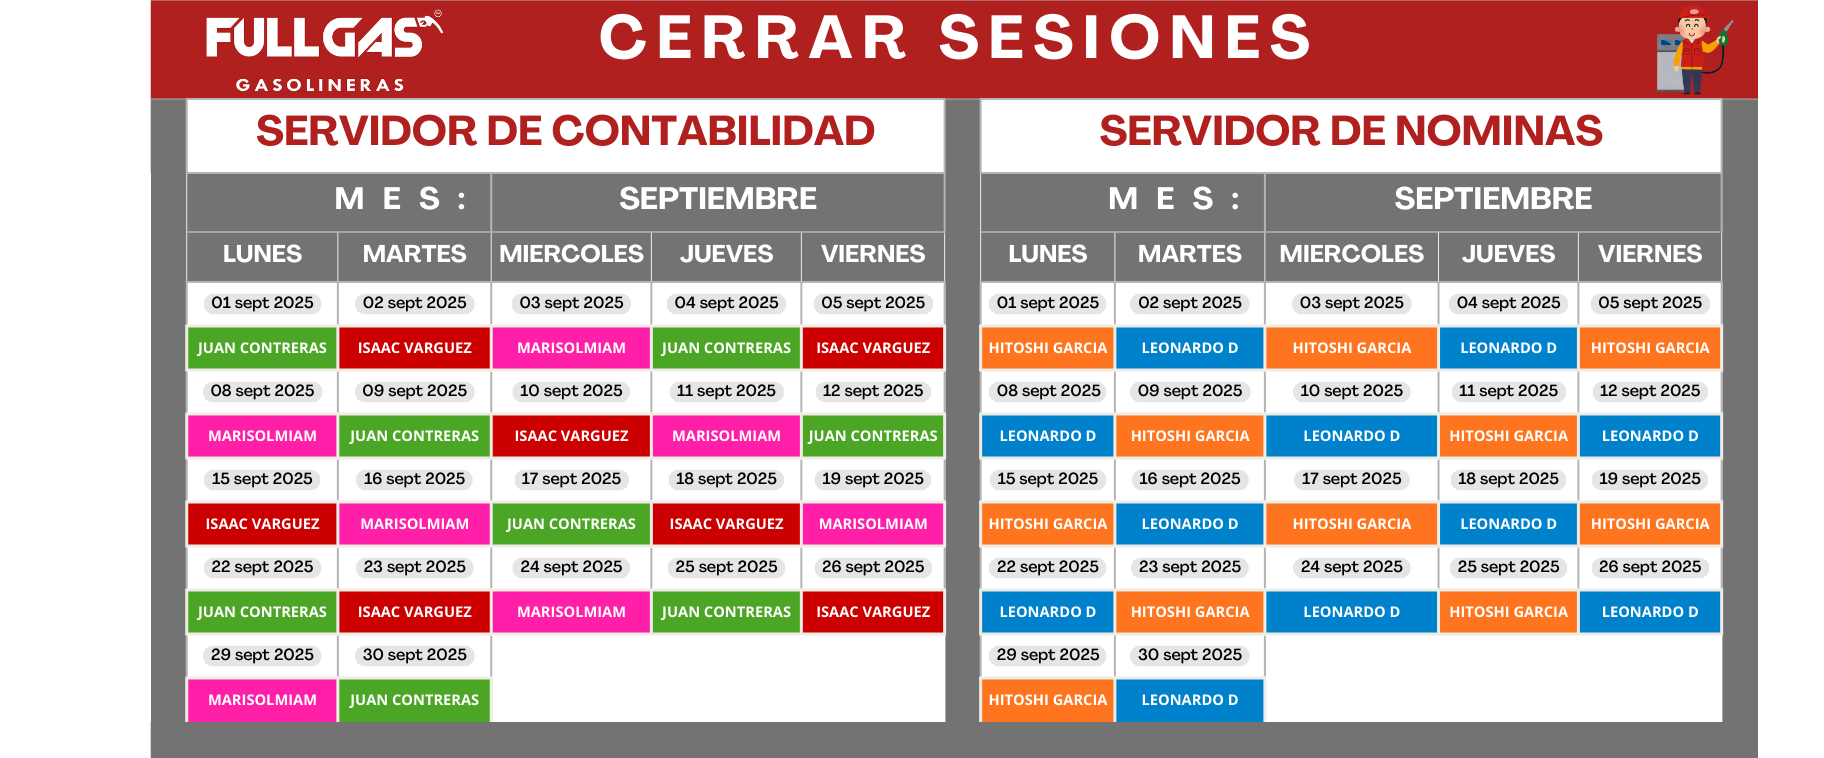
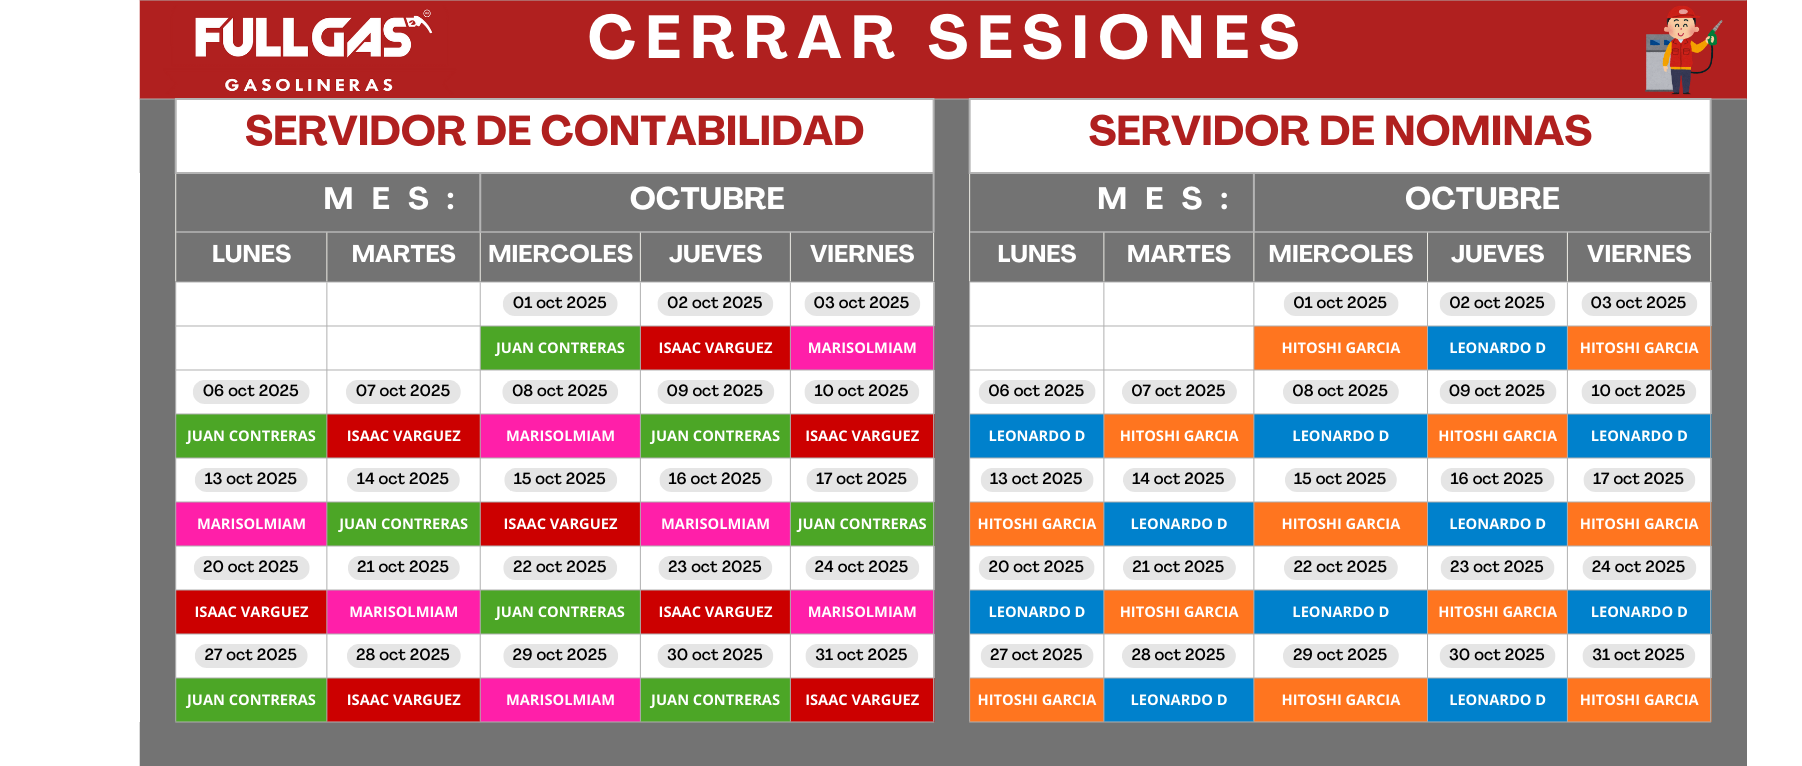
actualizacion de imagenes7

diff --git a/index.html b/index.html
@@ -40,7 +40,7 @@
                 <div class="galeria">
                     <!-- Imagen 1 -->
                     <div class="imagen-container">
-                        <img src="imagen/SEPTIEMBRE 2025.png" alt="Imagen 1" class="imagen">
+                        <img src="imagen/OCTUBRE2025.png" alt="Imagen 1" class="imagen">
                         <div class="pie-imagen">
                             <LI><a href="#modal1">JSON DIARIOS</a></LI>
                             <h3></h3>
@@ -50,9 +50,9 @@
 
                     <!-- Imagen 2 -->
                     <div class="imagen-container">
-                        <img src="imagen/ROLL_SABADOS.png" alt="Imagen 2" class="imagen">
+                        <img src="imagen/TXT.png" alt="Imagen 2" class="imagen">
                         <div class="pie-imagen">
-                            <LI><a href="#modal2">HORARIO SABADOS</a></LI>
+                            <LI><a href="#modal2">TXT</a></LI>
                             <h3></h3>
                             <p></p>
                         </div>
@@ -93,6 +93,9 @@
                             <p></p>
                         </div>
                     </div>
+                    <div>
+
+                    </div>
                     <div class="imagen-container">
                         <img src="imagen/GENERAL.png" alt="Imagen 8" class="imagen">
                         <div class="pie-imagen">
@@ -101,23 +104,17 @@
                             <p></p>
                         </div>
                     </div>
-                    <div class="imagen-container ">
-                        <img src="imagen/TXT.png" alt="Imagen 7" class="imagen">
-                        <div class="pie-imagen">
-                            <LI><a href="#modal7">TXT</a></LI>
-                            <p></p>
-                        </div>
-                    </div>
+
                     <div id="modal8" class="modalmask">
                         <div class="modalbox resize">
                             <a href="#close" title="Close" class="close"></a>
                             <img src="imagen/GENERAL.png" alt="Imagen 8" class="imagen">
                         </div>
                     </div>
-                    <div id="modal7" class="modalmask">
+                    <div id="modal2" class="modalmask">
                         <div class="modalbox resize">
                             <a href="#close" title="Close" class="close"></a>
-                            <img src="imagen/TXT.png" alt="Imagen 7" class="imagen">
+                            <img src="imagen/TXT.png" alt="Imagen 2" class="imagen">
                         </div>
                     </div>
                     <div id="modal6" class="modalmask">
@@ -144,23 +141,20 @@
                             <img src="imagen/ROLL_ACTIVIDADES.png" alt="Imagen 3" class="imagen">
                         </div>
                     </div>
-                    <div id="modal2" class="modalmask">
-                        <div class="modalbox resize">
-                            <a href="#close" title="Close" class="close"></a>
-                            <img src="imagen/ROLL_SABADOS.png" alt="Imagen 2" class="imagen">
-                        </div>
-                    </div>
                     <div id="modal1" class="modalmask">
                         <div class="modalbox movedown resize">
                             <a href="#close" title="Close" class="close"></a>
-                            <img src="imagen/SEPTIEMBRE 2025.png" alt="Imagen 1" class="imagen">
+                            <img src="imagen/OCTUBRE2025.png" alt="Imagen 1" class="imagen">
                         </div>
                     </div>
+
                     <script src="./funcion_zoom.js"></script>
                 </div>
             </div>
         </div>
+
     </main>
+
 
     <!-- Bootstrap JS -->
     <script src="https://cdn.jsdelivr.net/npm/bootstrap@5.3.0/dist/js/bootstrap.bundle.min.js"></script>
